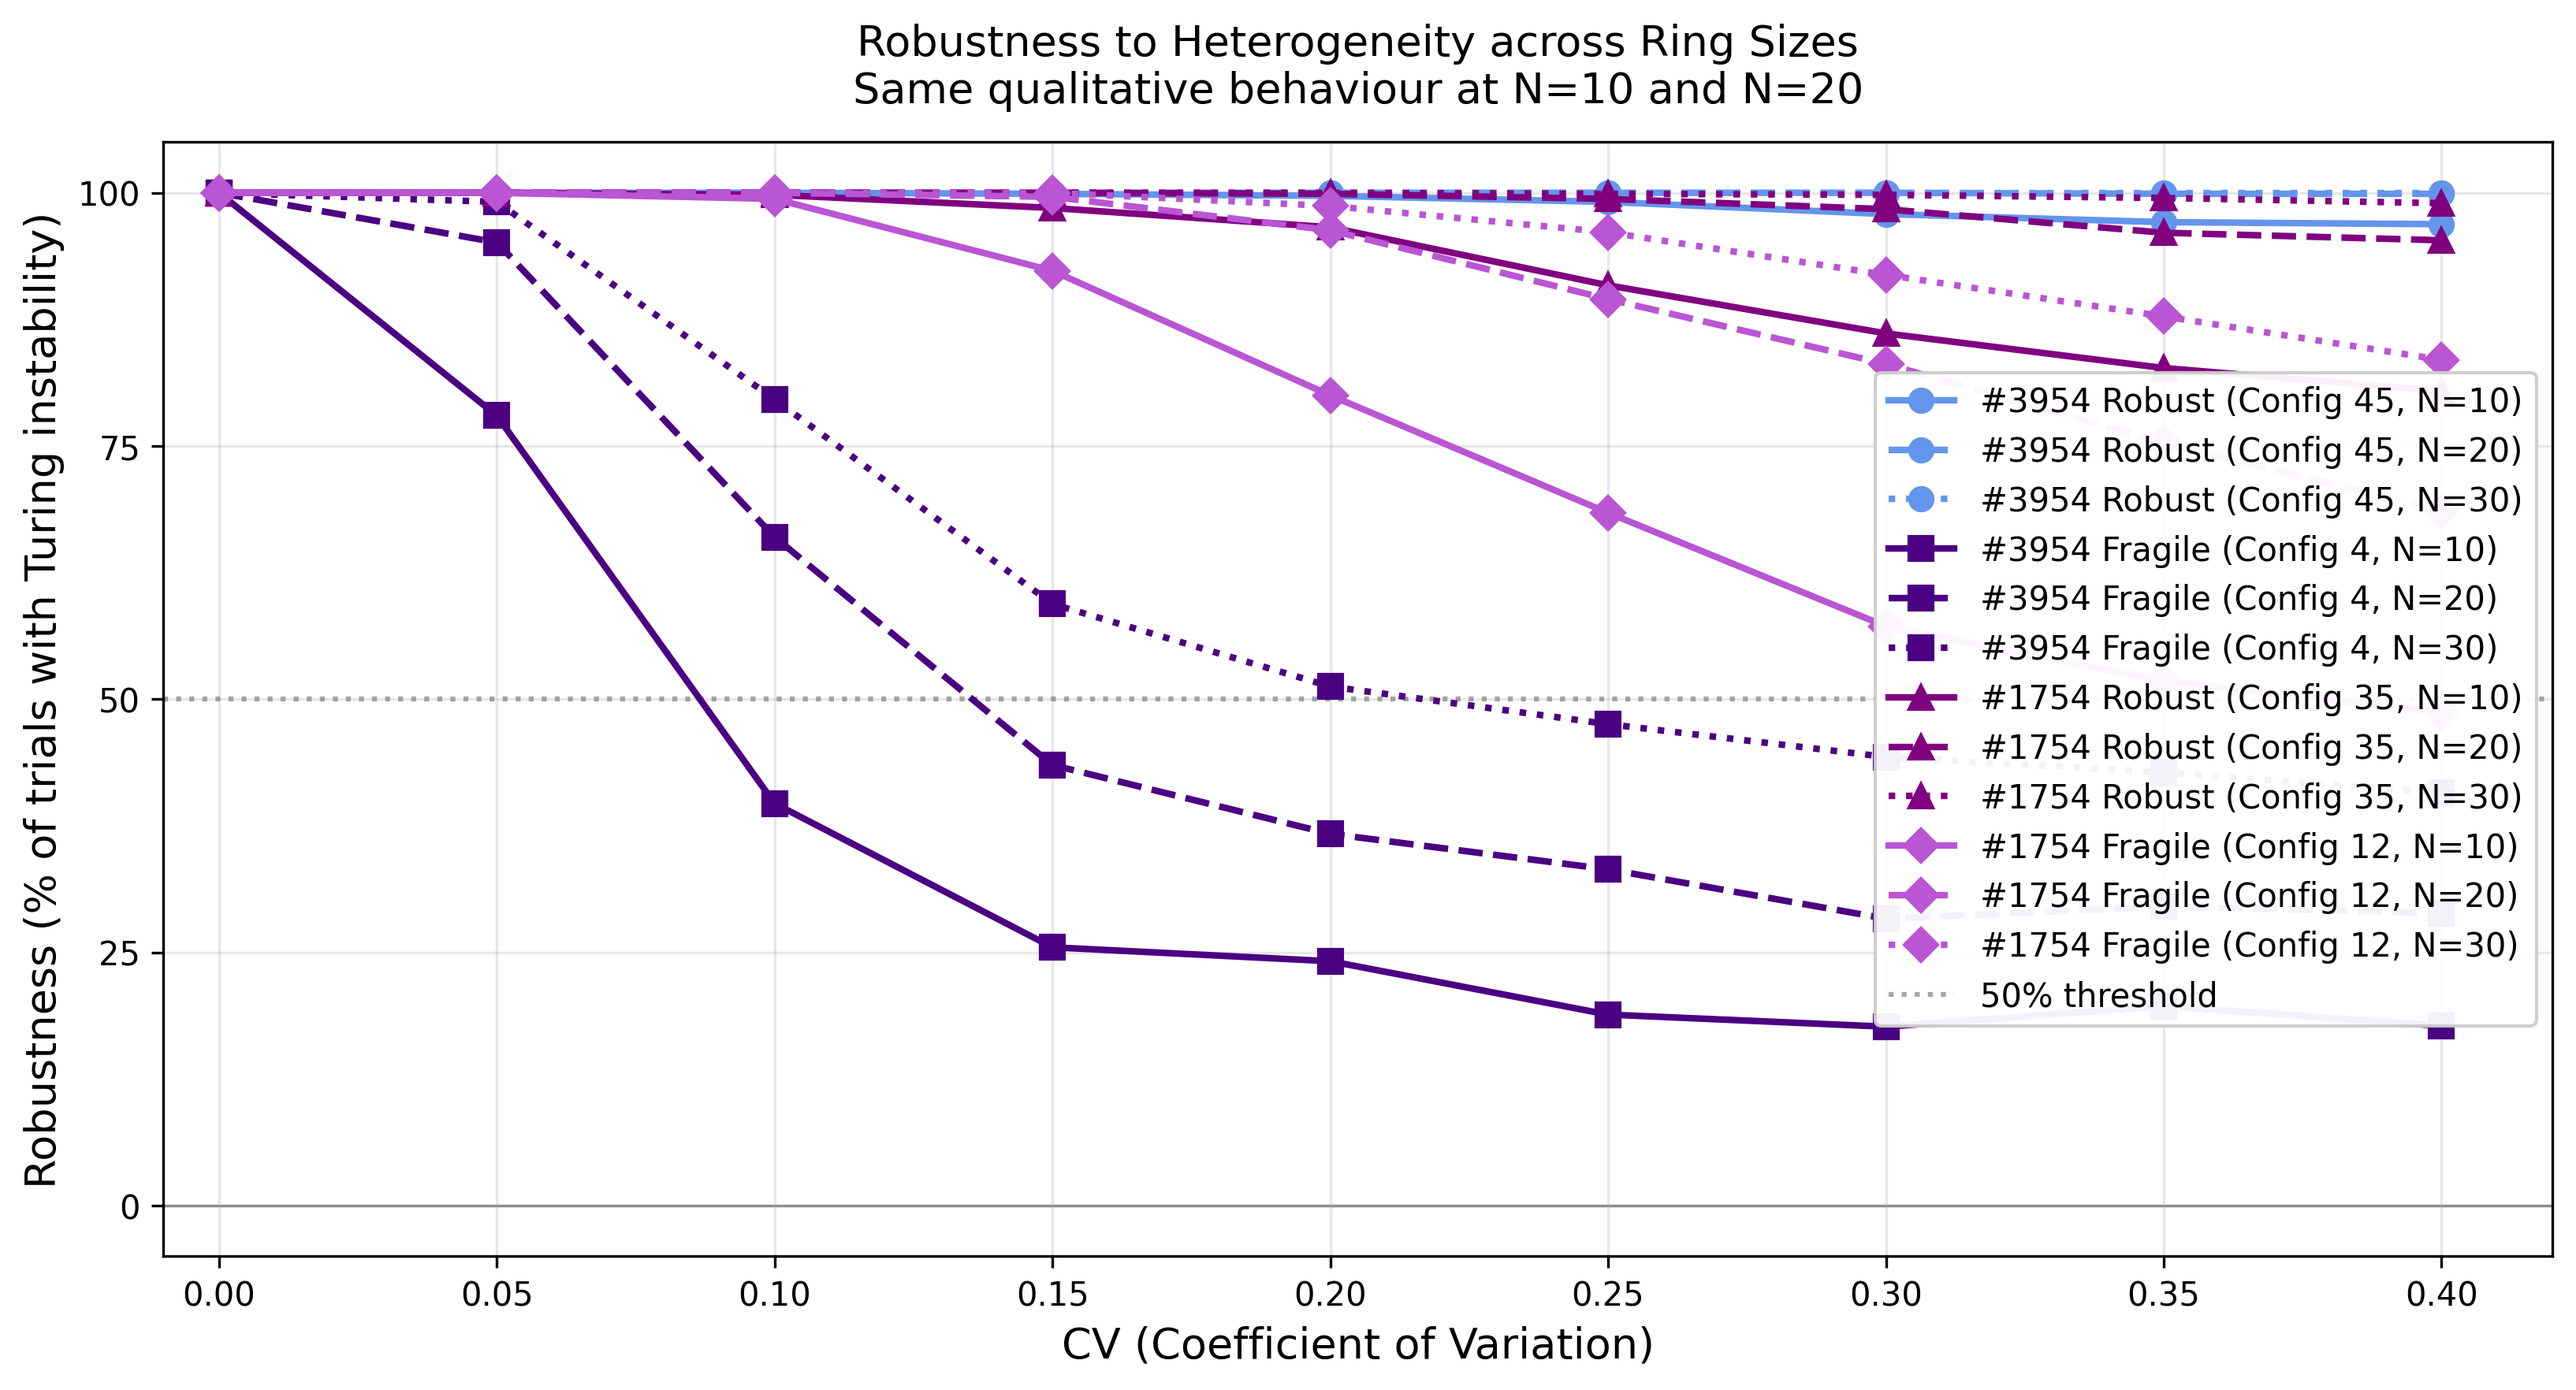
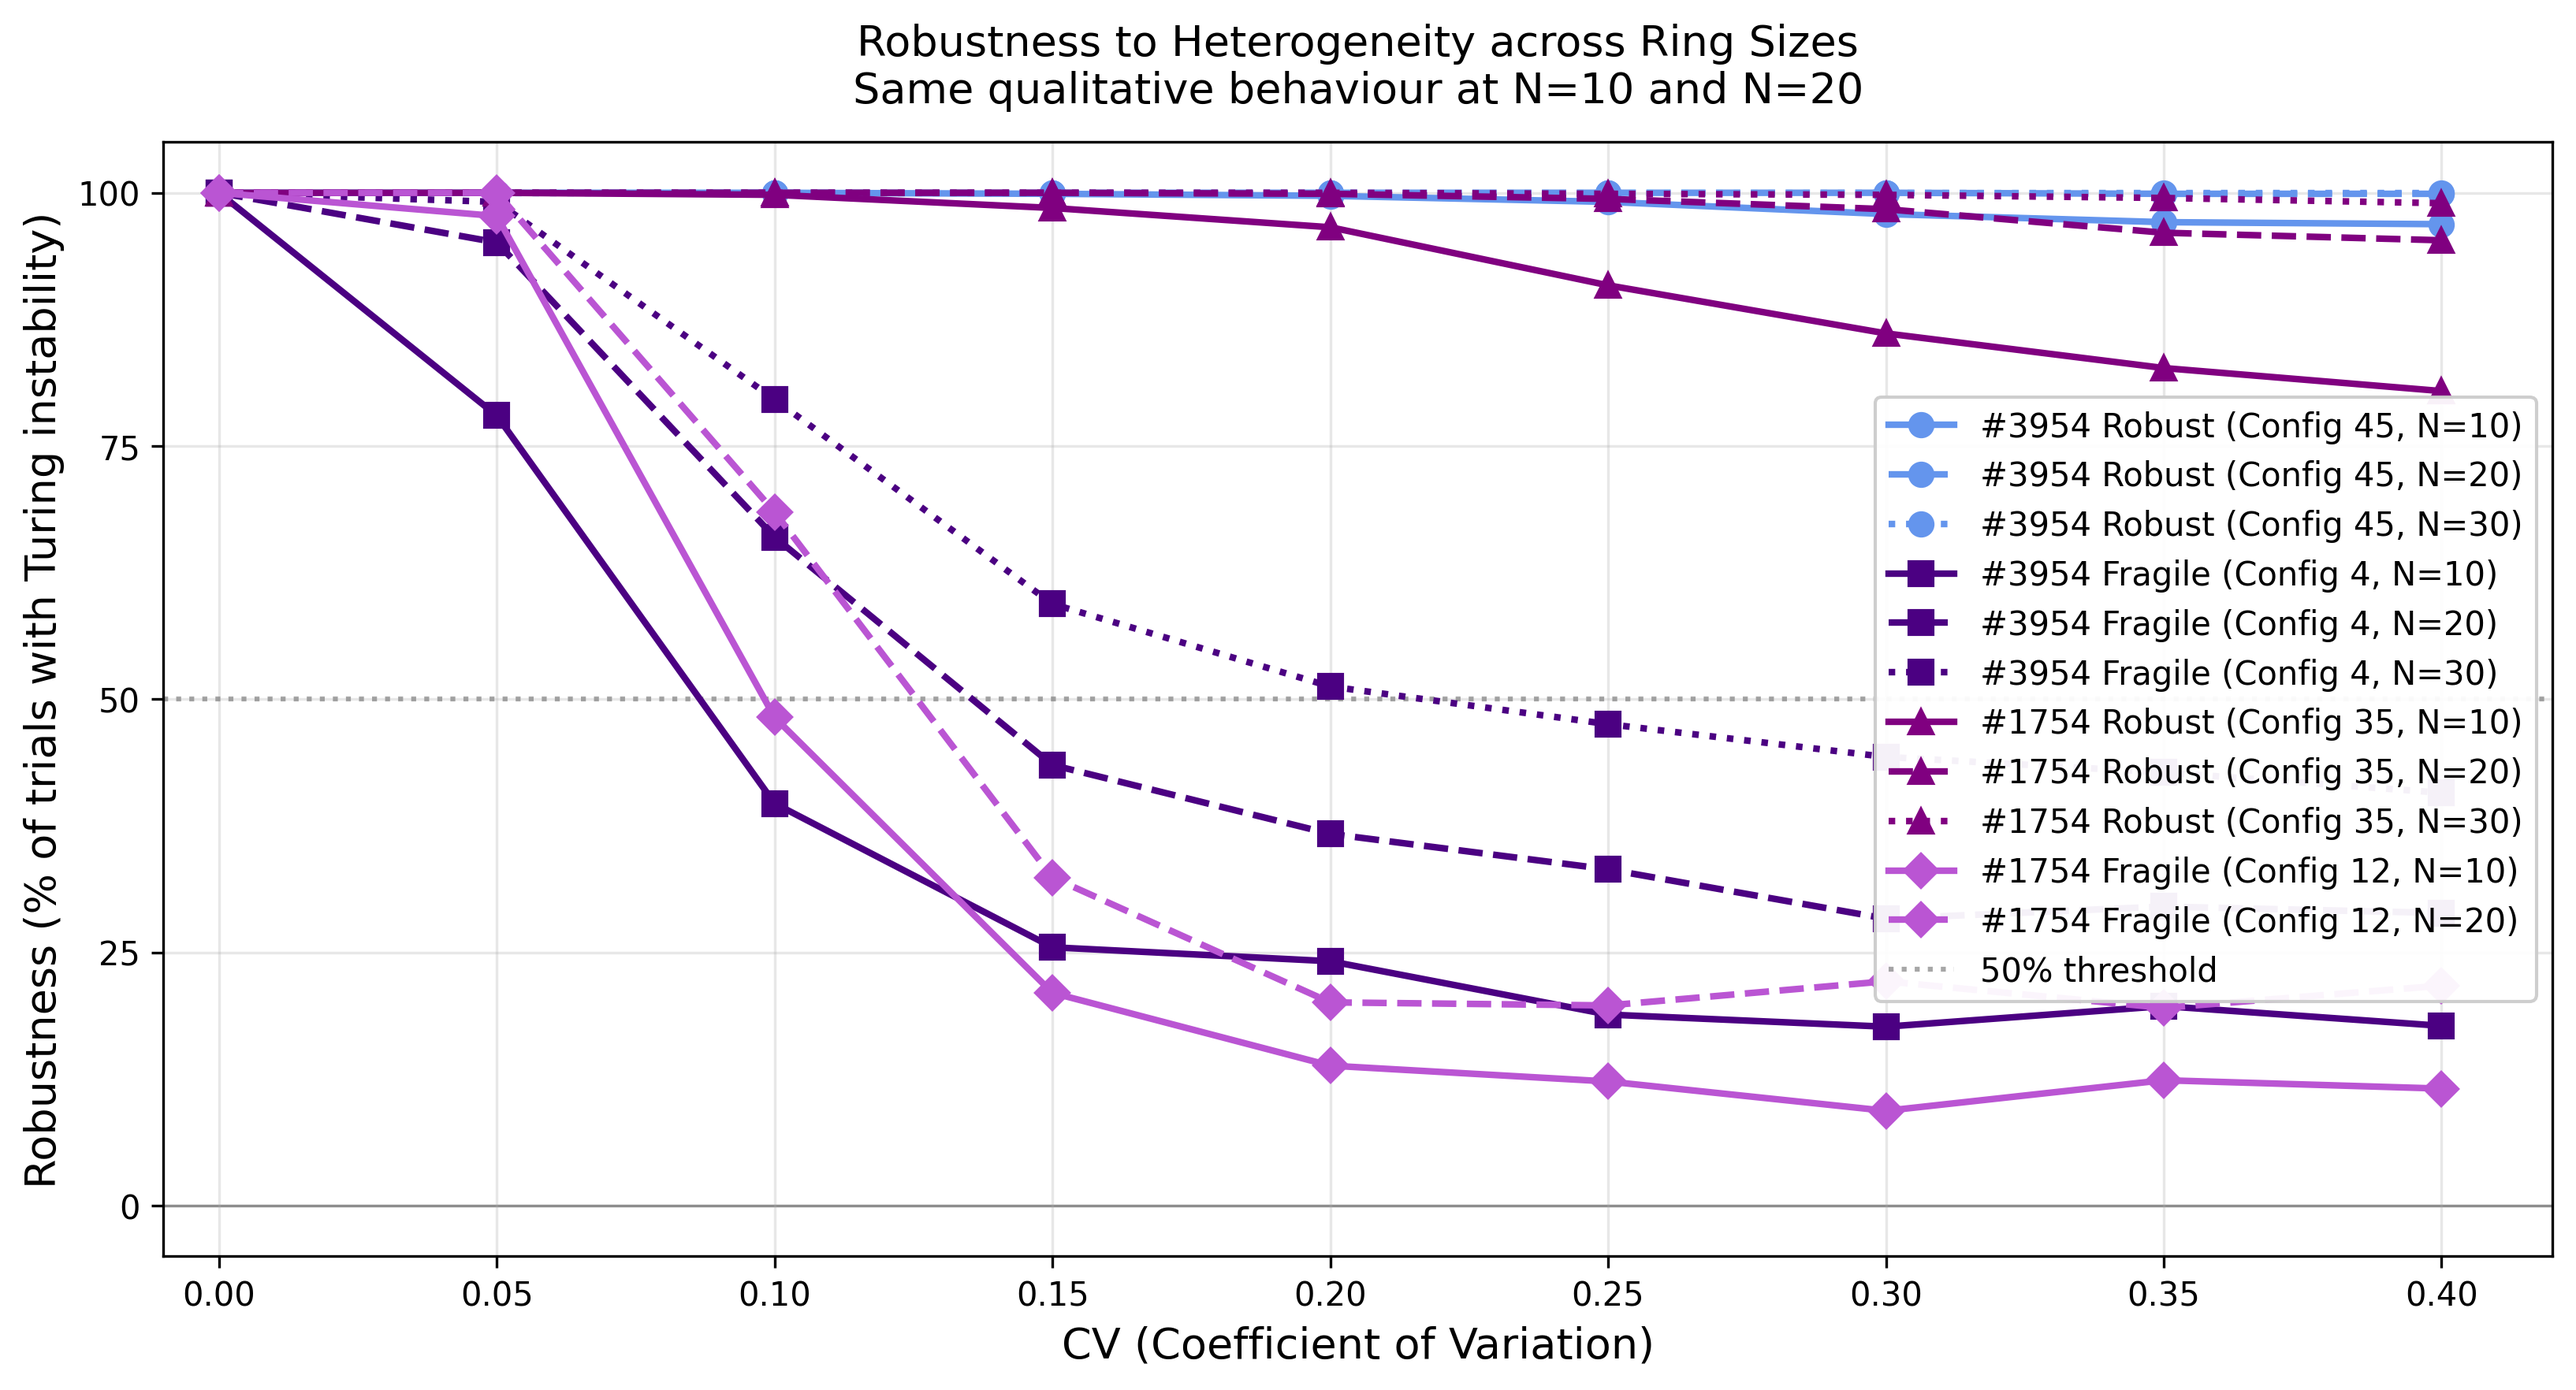
small changes to plots

diff --git a/BiologicalRealism/plots.py b/BiologicalRealism/plots.py
@@ -517,7 +517,7 @@ cv12_N20 = extract_cv_arrays(cv12_N20_data)
 cv12_N30 = extract_cv_arrays(cv12_N30_data)
 cv6_N10  = extract_cv_arrays(cv6_N10_data)
 cv6_N20  = extract_cv_arrays(cv6_N20_data)
-cv6_N30  = extract_cv_arrays(cv6_N30_data)
+#cv6_N30  = extract_cv_arrays(cv6_N30_data)
 
 robustness_curves = [
     # --- TOPOLOGY #3954 (Config 45: Robust, Config 4: Fragile) ---
@@ -576,11 +576,11 @@ robustness_curves = [
         'CV': cv6_N20['CV'], 'robustness': cv6_N20['robustness'],
         'color': 'mediumorchid', 'marker': 'D', 'linestyle': '--',
     },
-    {
-        'label': '#1754 Fragile (Config 12, N=30)',
-        'CV': cv6_N30['CV'], 'robustness': cv6_N30['robustness'],
-        'color': 'mediumorchid', 'marker': 'D', 'linestyle': ':',
-    },    
+    # {
+    #     'label': '#1754 Fragile (Config 12, N=30)',
+    #     'CV': cv6_N30['CV'], 'robustness': cv6_N30['robustness'],
+    #     'color': 'mediumorchid', 'marker': 'D', 'linestyle': ':',
+    # },    
 ]
 
 
